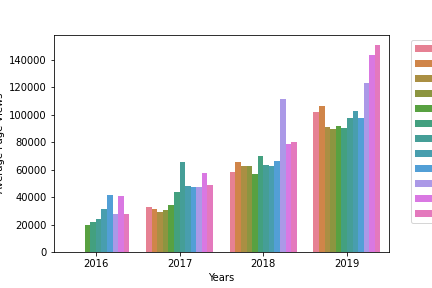
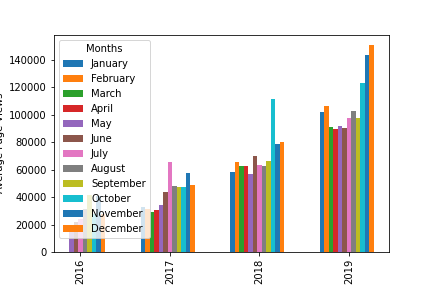
timeSeriesVisualizer

diff --git a/Data Analysis with Python/Page View Time Series Visualizer/time_series_visualizer.py b/Data Analysis with Python/Page View Time Series Visualizer/time_series_visualizer.py
@@ -1,4 +1,6 @@
 import matplotlib.pyplot as plt
+import matplotlib as mpl
+import numpy as np
 import pandas as pd
 import seaborn as sns
 from pandas.plotting import register_matplotlib_converters
@@ -16,29 +18,49 @@ df = df.loc[(df['value']>df['value'].quantile(0.025)) & (df['value']<df['value']
 def draw_line_plot():
     # Draw line plot
     fig,ax = plt.subplots()
-    df['value'].plot(ax=ax,title="Daily freeCodeCamp Forum Page Views 5/2016-12/2019",color="red")
+    ax.plot(df.loc[:,'value'],color='red')
+    ax.set_title('Daily freeCodeCamp Forum Page Views 5/2016-12/2019')
     ax.set_xlabel('Date')
     ax.set_ylabel('Page Views')
 
     # Save image and return fig (don't change this part)
     fig.savefig('line_plot.png')
     return fig
-
+# function start
 def draw_bar_plot():
     # Copy and modify data for monthly bar plot
-    df_bar = df.resample('ME').mean()    
-    df_bar['Months'] = df_bar.index.strftime('%B')
+    df_bar = df.copy()
+    df_bar['month'] = df_bar.index.strftime('%B')
     df_bar['year'] = df_bar.index.year
+    df_bar = df_bar.groupby(['year', 'month']).mean().reset_index()
     month_order = ['January', 'February', 'March', 'April', 'May', 'June', 'July', 'August', 'September', 'October', 'November', 'December']
-    df_bar['Months'] = pd.Categorical(df_bar['Months'], categories=month_order, ordered=True)
-
+    df_bar['month'] = pd.Categorical(df_bar['month'], categories=month_order, ordered=True)
+    
     # Draw bar plot
+    width = 0.25
+    years = df_bar['year'].unique().tolist()
+    x = np.arange(1, 1 + len(years) * 5, step=5)
+    multiplier= 0
     fig,ax = plt.subplots()
-    sns.barplot(data= df_bar,x='year', y = 'value',hue='Months',ax=ax,legend=True)
-    ax.legend(loc='upper left', bbox_to_anchor=(1.05, 1))
 
+    for thismonth in month_order:
+        offset = width* multiplier
+        y =df_bar.loc[df_bar['month']==thismonth,'value']
+        if len(y)<len(years):
+            xnew = x[1:]
+            ax.bar(xnew+offset,list(y),width,label=thismonth)
+        else:
+            ax.bar(x+offset,y,width,label=thismonth)
+        multiplier += 1
+
+  #  fig= sns.barplot(data= df_bar,x='year', y = 'value',hue='month',legend=True)
+   
+    ax.set_xticks([2.5, 7.5, 12.5, 17.5])
+    ax.set_xticklabels(years,rotation=90)
+   
     ax.set_xlabel('Years')
     ax.set_ylabel('Average Page Views')
+    ax.legend(loc='upper left',title='Months')
     
     # Save image and return fig (don't change this part)
     fig.savefig('bar_plot.png')
@@ -71,7 +93,3 @@ def draw_box_plot():
     # Save image and return fig (don't change this part)
     fig.savefig('box_plot.png')
     return fig
-
-
-
- 
